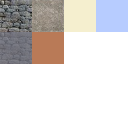
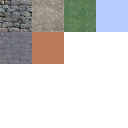
Initial progress for level 3
Includes a boss entity for that classic Merio finale

Changed region(s): [[0.5, 0.0, 0.75, 0.25]]

diff --git a/src/js/renderables/enemy-boss.js b/src/js/renderables/enemy-boss.js
@@ -1,0 +1,106 @@
+import { Entity, Body, Rect, game, collision, timer } from 'melonjs';
+import { getEnemyMaxSpeedX, detectMerio } from './entity-data.js';
+
+/**
+ * Boss enemy entity
+ */
+class BossEntity extends Entity {
+    constructor(x, y, settings) {
+        // Define the sprite here instead of in the tilemap
+        settings.image = "BEARS";
+
+        // Call parent constructor to apply the custom changes
+        super(x, y , settings);
+
+        // Add a new physic body
+        this.body = new Body(this);
+        
+        // Use a custom collision type because donuts cannot pass through walls like some other enemies
+        this.body.collisionType = collision.types.PHYSICS_BOUND_ENEMY_OBJECT;
+        // Add a collision shape
+        this.body.addShape(new Rect(0, 0, this.width, this.height));
+
+        // Set max speed
+        // X-axis velocity MUST be 1 or higher to enable X-axis movements, and is primarily controlled using this.body.force.x
+        // Y-axis velocity is used to control the height of bouncing
+        //
+        // Why then is Y-axis motion controlled by this.body.vel.y rather than this.body.force.y?
+        // Currently, using Y-axis velocity provides a better end result, and is consistent with the existing player jumping implementation.
+        this.body.setMaxVelocity(getEnemyMaxSpeedX(), 6);
+        // Gravity effectively controls the speed of bouncing - higher gravity = faster & lower bounces
+        this.body.gravityScale = 0.08;
+        // Set friction
+        this.body.setFriction(0.5, 0);
+        // Enable physic collisions
+        this.isKinematic = false;
+
+        this.alwaysUpdate = true;
+
+        // Use a different set of sprites based on the "type" of boss
+        // The number multiplied is based on the number of base sprites that each "type" has available
+        const spriteOffset = settings.type * 2;
+
+        // Indicate which sprite is for idling
+        this.renderable.addAnimation("stand", [0 + spriteOffset]);
+
+        // Indicate which sprite is for jumping
+        this.renderable.addAnimation("jump", [1 + spriteOffset]);
+
+        // Default animation
+        this.renderable.setCurrentAnimation("stand");
+
+        // Indicate whether this enemy cannot be defeated
+        this.undefeatable = true;
+
+        // Indicate default state of the enemy
+        this.alive = true;
+        
+        this.speedX = 3;
+        // > 0 = right, < 0 = left - This is OPPOSITE for the initial move, since the first action assumes that a movement has been made previously
+        // 0 = No horizontal movement (this is correct in all cases)
+        this.directionX = settings.directionX;
+        
+        this.actionTimerMax = 200;
+        this.actionTimer = this.actionTimerMax;
+    }
+
+    update(dt) {
+        if (!this.alive) {
+            game.data.score += 800;
+            game.world.removeChild(this);
+        }
+        
+        // Only move horizontally when airborne and it's time to move
+        if (this.body.vel.y != 0 && this.actionTimer < this.actionTimerMax) {
+            this.body.force.x = this.speedX * this.directionX;
+        }
+        this.actionTimer = (this.actionTimer + 1) % this.actionTimerMax;
+
+        // Evaluates to true if the enemy moved or the update function was called
+        return super.update(dt);
+    }
+    
+    onCollision(response, other) {
+        if (response.b.body.collisionType === collision.types.WORLD_SHAPE) {
+            // Bouncing on a solid block results in pausing actions until it's time to move again
+            if (response.overlapV.y > 0) {
+                this.renderable.setCurrentAnimation("stand");
+                if (this.actionTimer <= 0) {
+                    this.body.vel.y = -this.body.maxVel.y * timer.tick;
+                    this.directionX *= -1;
+                    // Flip the sprite to match the direcction of movement.
+                    // This assumes that the sprite's default direction is right.
+                    this.renderable.flipX(this.directionX < 0);
+                    this.renderable.setCurrentAnimation("jump");
+                }
+            }
+            // Register a solid collision
+            return true;
+        }
+
+        // All other objects are not solid
+        return false;
+    }
+};
+
+export default BossEntity;

diff --git a/src/js/renderables/entity-data.js b/src/js/renderables/entity-data.js
@@ -168,6 +168,14 @@ export function getAllMessages() {
         ["So, overrunning that burning city from one of the previous games wasn't enough for these donut delinquents, eh? Jump on them before they take over another place that people sort of care about."],
         ["Okay, Merio, this is the game plan: You rush these donuts, open the gate, jump over to the other fairy floss and KEEP EATING until you see a good opening to get past those dust guys. You can thank me later, but your liver and other vital organs certainly won't."],
         ["Honestly, that last cannon was an absolute dud. But I've got a good feeling about this one because it smells like pork rinds."],
+
+        ["Looks like those lazy lumberjacks I hired left all their equipment lying around AGAIN. That's it, I want to see their manager right now!",
+         "While that's happening, you can move the boxes containing their stuff by repeatedly tapping the LEFT or RIGHT key while facing it to push it a little bit."],
+        ["Don't push that box all the way! You'll need it to give you extra height and make the jump over that chasm ahead."],
+        ["Alright, it's that point in the game where you really get to abuse the physics engine and violate the laws of motion, so listen up.",
+         "When you eat that fairy floss, the box of axes is going to briefly jump up. If you can get it to land on your hair at a particular angle, it'll get kicked right over there so you can climb the wall. But once it's in place, you only have one chance to get over it, so make it count! See you on the other side...that is if you can make it there."],
+        ["Whoowee! I totally didn't question your ability to get to this point, so good on you!",
+         "To get to the last cannon, you'll have to pass by these pudgy looking bears. They've got a weird thing going, so I suggest watching them for a bit to find a good way to get past them without being jumped on."],
     ];
 }
 

diff --git a/src/index.js b/src/index.js
@@ -21,6 +21,7 @@ import SecretCollectableEntity from 'js/renderables/collectable.js';
 import MonstoidEntity from 'js/renderables/enemy-monstoid.js';
 import DustGuyEntity from 'js/renderables/enemy-dustguy.js';
 import DonutEntity from 'js/renderables/enemy-donut.js';
+import BossEntity from 'js/renderables/enemy-boss.js';
 import ChasmEntity from 'js/renderables/enemy-chasm.js';
 import FlashBlockEntity from 'js/renderables/flash-block.js';
 import FlashBlockTriggerEntity from 'js/renderables/flash-block-trigger.js';
@@ -91,6 +92,7 @@ device.onReady(() => {
         pool.register("MonstoidEntity", MonstoidEntity);
         pool.register("DustGuyEntity", DustGuyEntity);
         pool.register("DonutEntity", DonutEntity);
+        pool.register("BossEntity", BossEntity);
         pool.register("FlashBlockEntity", FlashBlockEntity);
         pool.register("FlashBlockTriggerEntity", FlashBlockTriggerEntity);
         pool.register("ChasmEntity", ChasmEntity);

diff --git a/src/manifest.js b/src/manifest.js
@@ -28,6 +28,11 @@ const DataManifest = [
         type: "tmx",
         src: "data/map/level2.tmx"
     },
+    {
+        name: "level3",
+        type: "tmx",
+        src: "data/map/level3.tmx"
+    },
     {   
         name: "all-tiles",
         type: "tsx",
@@ -74,6 +79,11 @@ const DataManifest = [
         src: "data/img/sprites/DONUT.png"
     },
     {   
+        name: "BEARS",
+        type:"image",
+        src: "data/img/sprites/BEARS.png"
+    },
+    {   
         name: "FLASHBLOCK",
         type:"image",
         src: "data/img/sprites/FLASHBLOCK.png"
@@ -107,6 +117,11 @@ const DataManifest = [
         name: "backdrop-dessert-plains",
         type:"image",
         src: "data/img/backdrop/backdrop-dessert-plains.png"
+    },
+    {   
+        name: "backdrop-mist-forest",
+        type:"image",
+        src: "data/img/backdrop/backdrop-mist-forest.png"
     },
     {
         name: "theme-town",
